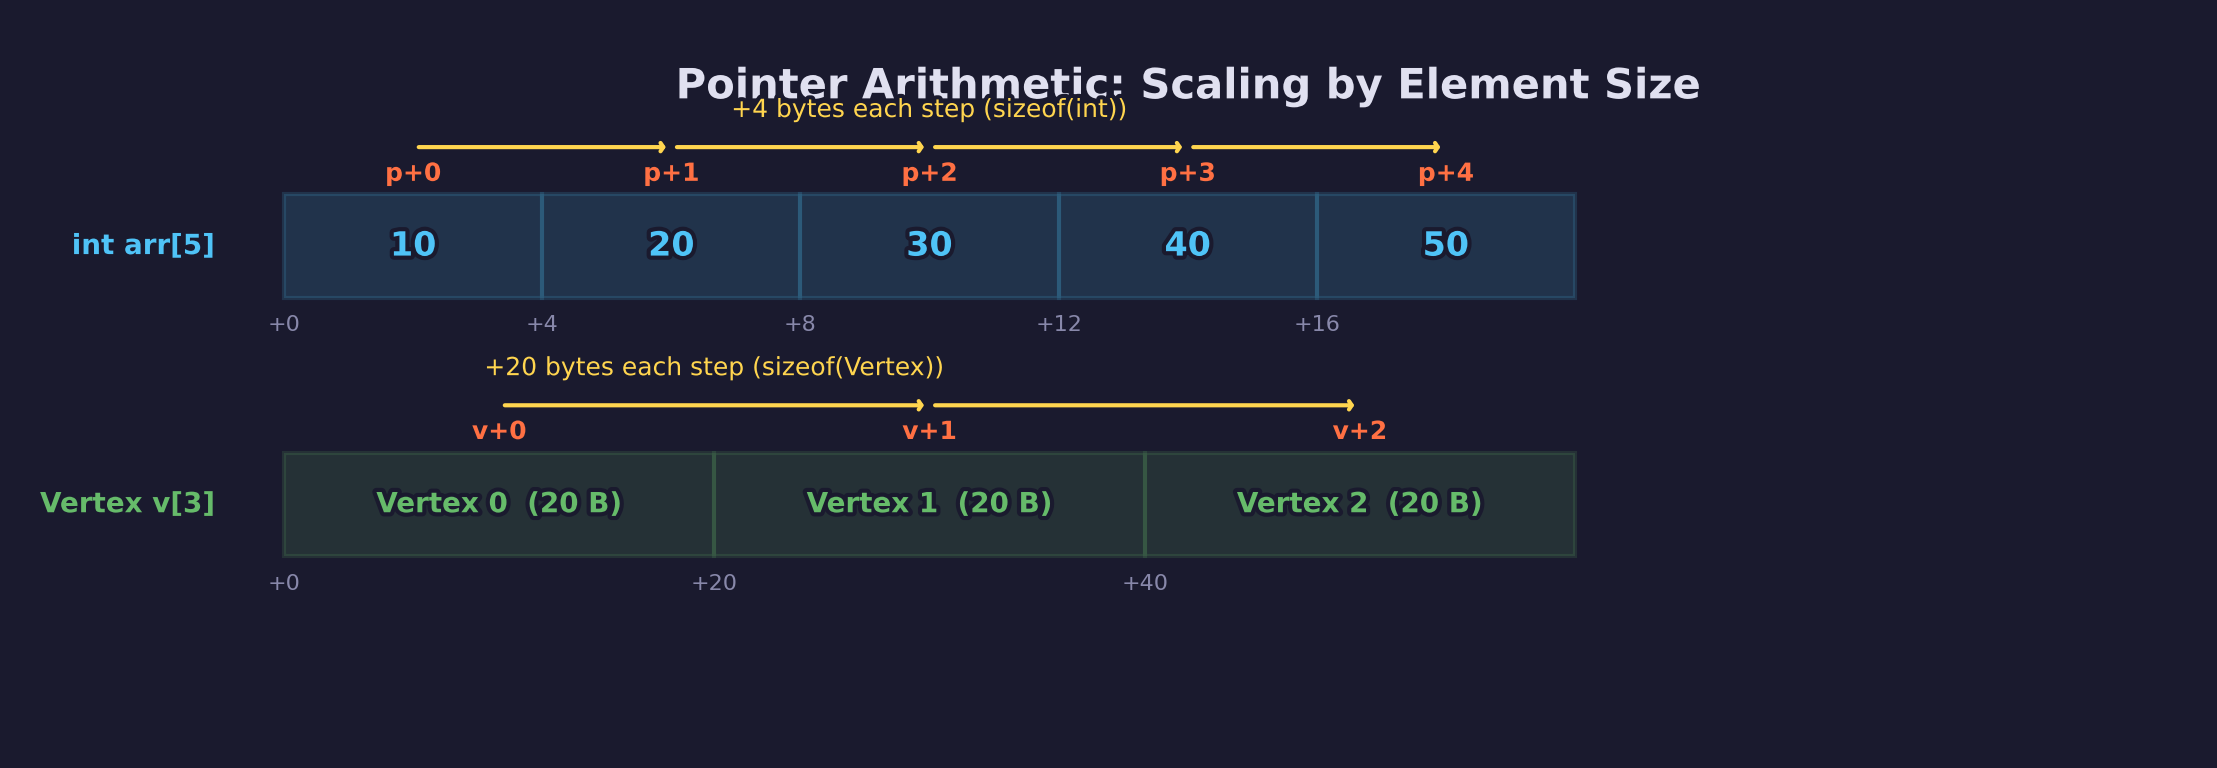
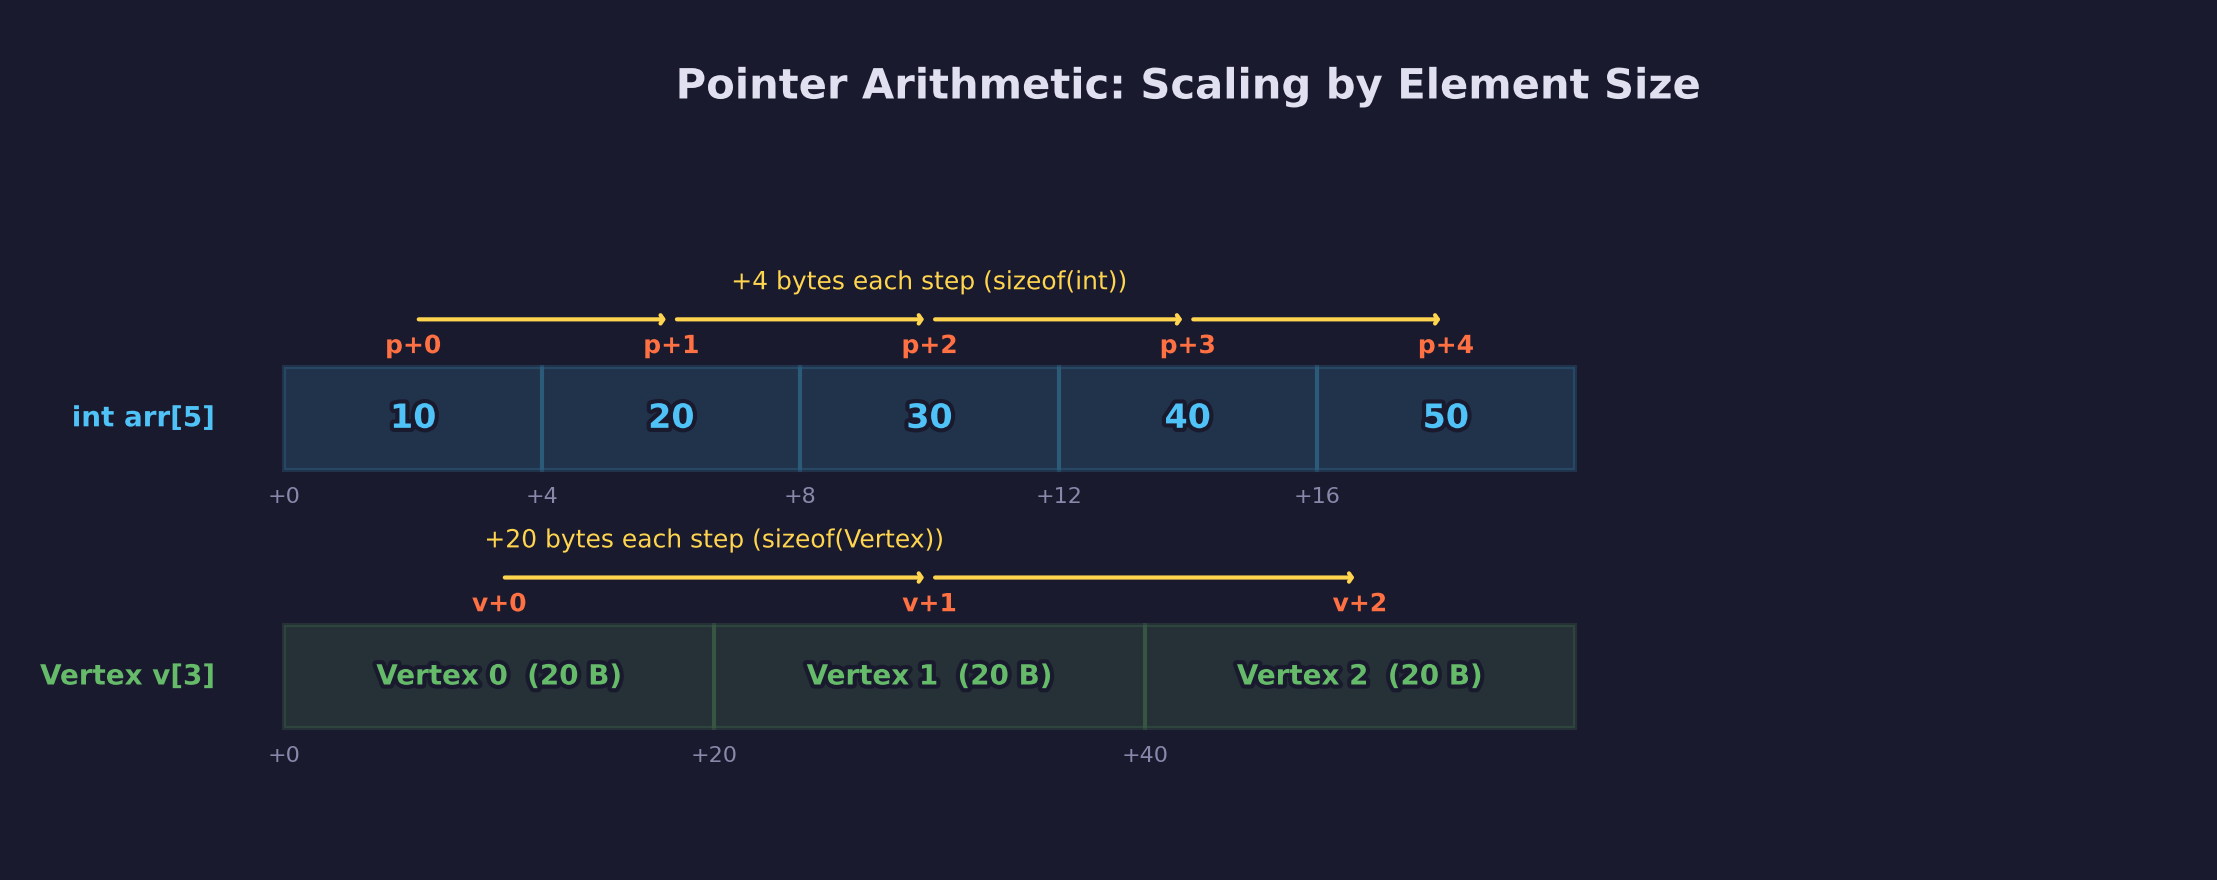
Add spacing between title and content in pointer_arithmetic diagram
Move title up and tighten bottom margin so content doesn't hug the
title and there's no excess whitespace at the bottom.

https://claude.ai/code/session_012nEGHc3eRUuyqkpwV8fnXC

diff --git a/scripts/forge_diagrams/engine_diagrams.py b/scripts/forge_diagrams/engine_diagrams.py
@@ -498,10 +498,10 @@ def diagram_vertex_memory_layout():
 # ---------------------------------------------------------------------------
 def diagram_pointer_arithmetic():
     """Visualize how pointer arithmetic scales by element size."""
-    fig, ax = plt.subplots(figsize=(11, 5.5), facecolor=STYLE["bg"])
+    fig, ax = plt.subplots(figsize=(11, 6.5), facecolor=STYLE["bg"])
     ax.set_facecolor(STYLE["bg"])
     ax.set_xlim(-1, 22)
-    ax.set_ylim(-1.5, 6.5)
+    ax.set_ylim(-0.8, 8.5)
     ax.set_aspect("equal")
     ax.axis("off")
 
@@ -509,7 +509,7 @@ def diagram_pointer_arithmetic():
 
     ax.text(
         10.5,
-        6.2,
+        8.2,
         "Pointer Arithmetic: Scaling by Element Size",
         color=STYLE["text"],
         fontsize=15,
